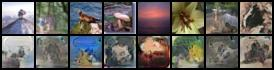
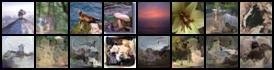
checkpoints

diff --git a/scripts/maskgit/debug.py b/scripts/maskgit/debug.py
@@ -16,9 +16,16 @@ def run_diagnostics():
     device = torch.device("cuda" if torch.cuda.is_available() else "cpu")
 
     print("--- 1. Testing Stage 1 VAE Reconstruction Quality ---")
-    vae = VQGanVAE(dim=64, channels=3, layers=2, discr_layers=2, codebook_size=1024, temperature=0.9).to(device)
+    
+    # UPDATE 1: discr_layers=2
+    vae = VQGanVAE(dim=128, channels=3, layers=2, discr_layers=2, codebook_size=256).to(device)
+    
     ema_path = os.path.join(PROJECT_ROOT, "checkpoints/maskgit/vqgan/vae.49000.ema.pt")
     
+    if not os.path.exists(ema_path):
+        # Fallback just in case it saved at 50000 instead
+        ema_path = os.path.join(PROJECT_ROOT, "checkpoints/maskgit/vqgan/vae.50000.ema.pt")
+        
     if not os.path.exists(ema_path):
         print("VAE checkpoint not found!")
         return
@@ -44,11 +51,15 @@ def run_diagnostics():
     save_image(comparison, out_img, nrow=8)
     
     print(f">> Saved {out_img}")
-    print(">> Action Required: Open this image. If the bottom row is blurry, the VAE is underpowered and needs fixing.")
+    print(">> Action Required: Open this image. You should see much better reconstruction than the 5,000-step sanity check.")
 
     print("\n--- 2. Testing Stage 2 Transformer Determinism ---")
-    transformer = MaskGitTransformer(num_tokens=1024, seq_len=64, dim=512, depth=6, dim_head=64, heads=8, ff_mult=4, flash=False).to(device)
-    maskgit = MaskGit(vae=vae, transformer=transformer, image_size=32).to(device)
+    
+    transformer = MaskGitTransformer(num_tokens=256, seq_len=64, dim=512, depth=6, dim_head=64, heads=8, ff_mult=4, flash=False).to(device)
+    
+    # UPDATE 2: cond_drop_prob=0.25
+    maskgit = MaskGit(vae=vae, transformer=transformer, image_size=32, cond_drop_prob=0.25).to(device)
+    
     trans_path = os.path.join(PROJECT_ROOT, "checkpoints/maskgit/transformer/maskgit_epoch_250.pt")
 
     if not os.path.exists(trans_path):
@@ -62,7 +73,9 @@ def run_diagnostics():
         print("Generating 5 independent images for 'class 0'...")
         # Generate 5 images simultaneously
         texts = ["class 0"] * 5
-        generated_imgs = maskgit.generate(texts=texts, cond_scale=1.5)
+        
+        # UPDATE 3: cond_scale=1.15
+        generated_imgs = maskgit.generate(texts=texts, cond_scale=1.15)
         
     # Check if the images are mathematically identical
     diff_1_2 = torch.abs(generated_imgs[0] - generated_imgs[1]).mean().item()

diff --git a/scripts/maskgit/train_transformer.py b/scripts/maskgit/train_transformer.py
@@ -15,10 +15,13 @@ def main():
     results_dir = "../../checkpoints/maskgit/transformer"
     os.makedirs(results_dir, exist_ok=True)
     
-    # Matches the healthy VAE
-    vae = VQGanVAE(dim=128, channels=3, layers=2, discr_layers=1, codebook_size=256)
+    vae = VQGanVAE(dim=128, channels=3, layers=2, discr_layers=2, codebook_size=256)
     
-    ema_state_dict = torch.load("../../checkpoints/maskgit/vqgan/vae.49000.ema.pt", map_location="cpu")
+    ema_path = "../../checkpoints/maskgit/vqgan/vae.49000.ema.pt"
+    if not os.path.exists(ema_path):
+        ema_path = "../../checkpoints/maskgit/vqgan/vae.50000.ema.pt"
+        
+    ema_state_dict = torch.load(ema_path, map_location="cpu")
     clean_state_dict = {k.replace("ema_model.", ""): v for k, v in ema_state_dict.items() if k.startswith("ema_model.")}
     
     vae.load_state_dict(clean_state_dict)
@@ -36,18 +39,26 @@ def main():
         flash = False
     )
     
-    maskgit = MaskGit(vae=vae, transformer=transformer, image_size=32, cond_drop_prob=0.1)
+    # THE FIX: Higher dropout forces the model to stop memorizing the text prompts
+    maskgit = MaskGit(
+        vae=vae, 
+        transformer=transformer, 
+        image_size=32, 
+        cond_drop_prob=0.25  
+    )
     
     transform = transforms.Compose([transforms.RandomHorizontalFlip(), transforms.ToTensor()])
     dataset = datasets.CIFAR100(root=dataset_root, train=True, download=True, transform=transform)
     dataloader = DataLoader(dataset, batch_size=128, shuffle=True, drop_last=True, num_workers=4)
     
-    optim = Adam(maskgit.parameters(), lr=1e-4, weight_decay=0.01)
+    # THE FIX: Higher weight decay to prevent mathematical overconfidence
+    optim = Adam(maskgit.parameters(), lr=1e-4, weight_decay=0.05)
     maskgit, optim, dataloader = accelerator.prepare(maskgit, optim, dataloader)
     
     epochs = 250  
     global_step = 0
     
+    print("Starting MaskGIT Stage 2 (Transformer) Training...")
     for epoch in range(epochs):
         maskgit.train()
         for images, labels in dataloader:

diff --git a/scripts/generate_maskgit_oversampling_cifar100.py b/scripts/generate_maskgit_oversampling_cifar100.py
@@ -9,15 +9,17 @@ from muse_maskgit_pytorch import VQGanVAE, MaskGit, MaskGitTransformer
 PreTrainedTokenizerBase.batch_encode_plus = PreTrainedTokenizerBase.__call__
 
 SCRIPT_DIR = os.path.dirname(os.path.abspath(__file__))
-
 PROJECT_ROOT = os.path.abspath(os.path.join(SCRIPT_DIR, "../"))
 
 def generate_samples():
     device = torch.device("cuda" if torch.cuda.is_available() else "cpu")
 
-    vae = VQGanVAE(dim=128, channels=3, layers=2, discr_layers=1, codebook_size=256)
+    # UPDATE 1: discr_layers=2
+    vae = VQGanVAE(dim=128, channels=3, layers=2, discr_layers=2, codebook_size=256)
     transformer = MaskGitTransformer(num_tokens=256, seq_len=64, dim=512, depth=6, dim_head=64, heads=8, ff_mult=4, flash=False)
-    maskgit = MaskGit(vae=vae, transformer=transformer, image_size=32, cond_drop_prob=0.1).to(device)
+    
+    # UPDATE 2: cond_drop_prob=0.25
+    maskgit = MaskGit(vae=vae, transformer=transformer, image_size=32, cond_drop_prob=0.25).to(device)
 
     weights_path = os.path.join(PROJECT_ROOT, "checkpoints/maskgit/transformer/maskgit_epoch_250.pt")
     maskgit.load_state_dict(torch.load(weights_path, map_location=device))
@@ -44,7 +46,8 @@ def generate_samples():
             texts = [f"class {label}" for _ in range(current_batch)]
             
             with torch.no_grad():
-                generated_imgs = maskgit.generate(texts=texts, cond_scale=1.5)
+                # UPDATE 3: cond_scale=1.15 to encourage intra-class diversity
+                generated_imgs = maskgit.generate(texts=texts, cond_scale=1.15)
                 
             generated_imgs = generated_imgs.clamp(0, 1)
             

diff --git a/scripts/maskgit/train_vqgan.py b/scripts/maskgit/train_vqgan.py
@@ -24,7 +24,7 @@ def main():
         dim = 128,          
         channels = 3,
         layers = 2,
-        discr_layers = 1,       
+        discr_layers = 2,       
         codebook_size = 256     
     )
 
@@ -32,7 +32,7 @@ def main():
         vae = vae,
         image_size = 32,            
         folder = data_dir,          
-        num_train_steps = 50000,    # THE FIX: Back to the full 50,000 steps!
+        num_train_steps = 50000,    
         lr = 1e-4,                  
         batch_size = 128,
         grad_accum_every = 1,
@@ -41,7 +41,7 @@ def main():
         results_folder = results_dir
     )
 
-    print("Starting VQGAN Stage 1 Training...")
+    print("Starting VQGAN Stage 1 Training (50,000 steps)...")
     trainer.train()
 
 if __name__ == '__main__':
